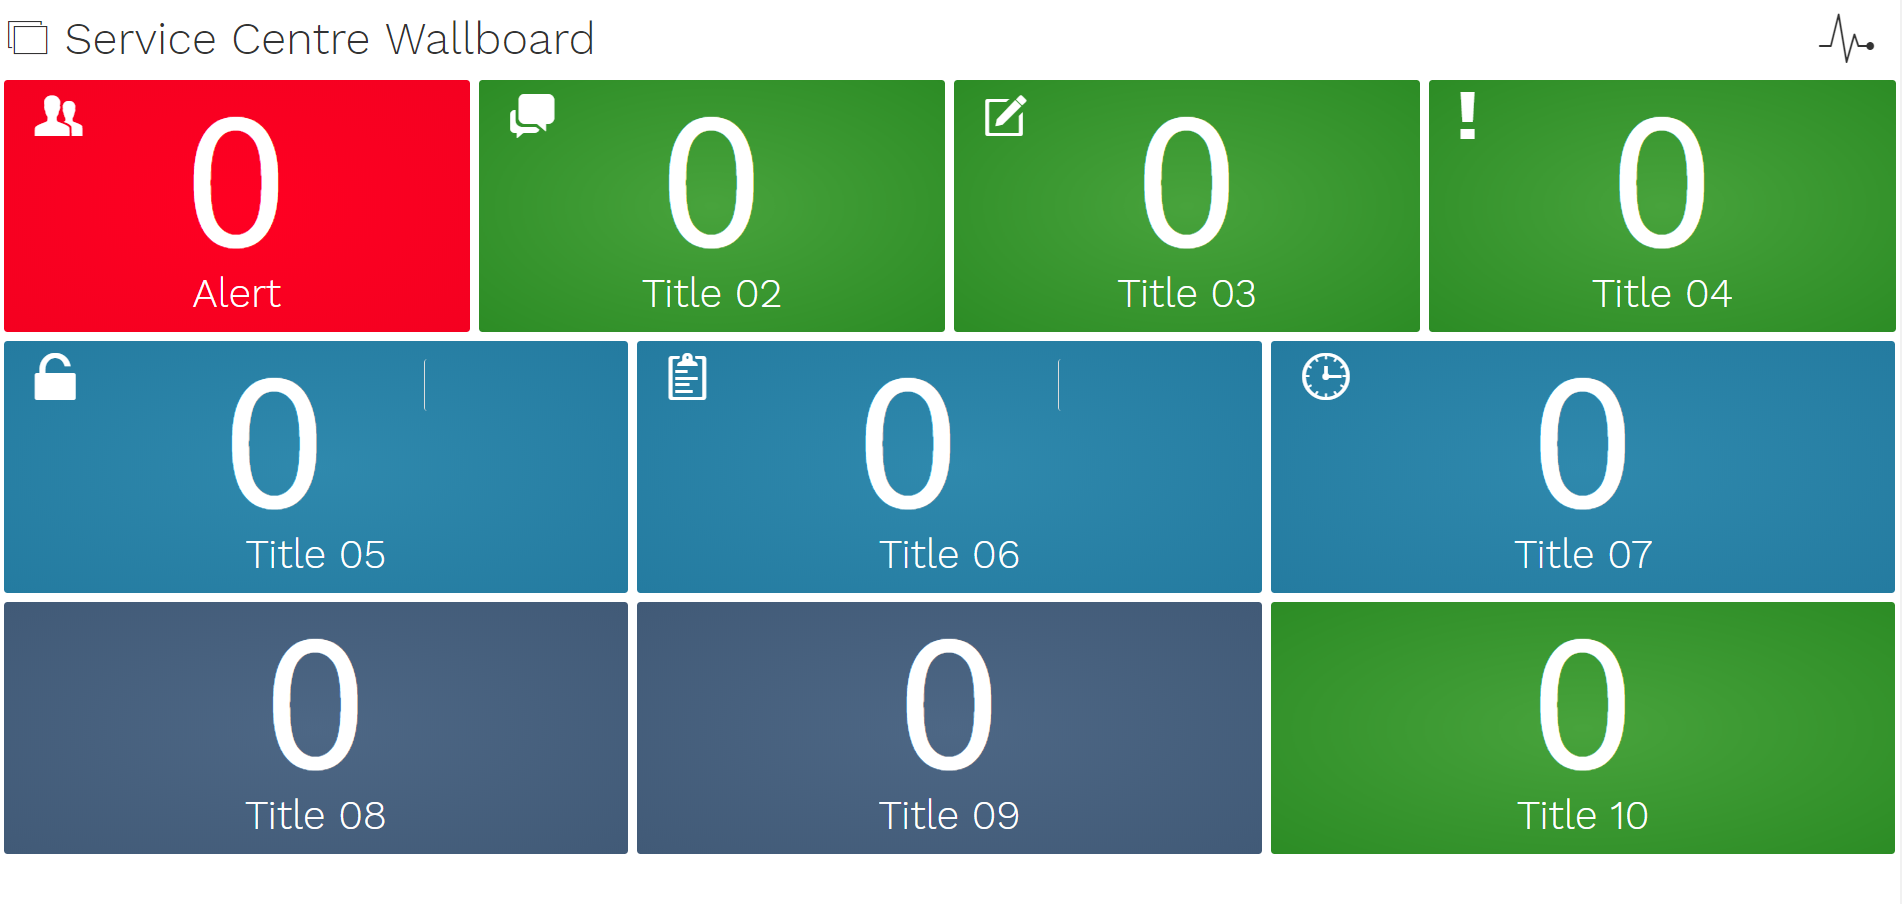
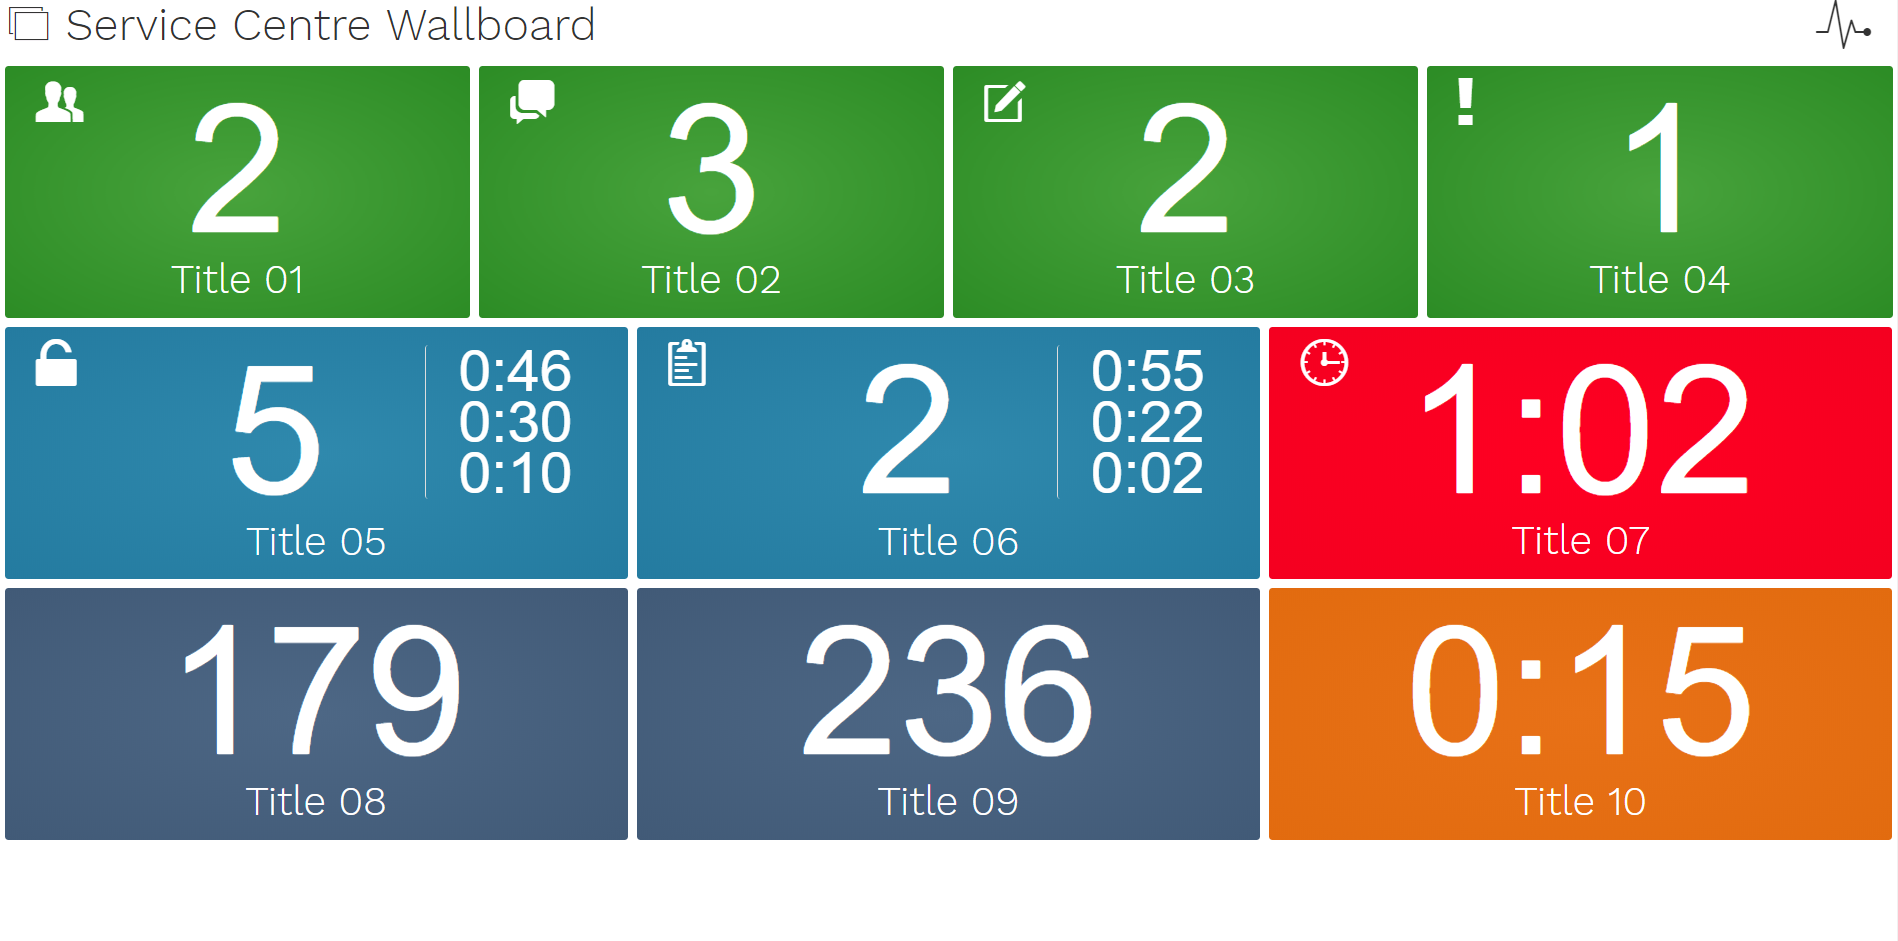
uplift documentation and init values

diff --git a/app/start.js b/app/start.js
@@ -46,23 +46,28 @@ wallboard.controller('scwCtrl', function($scope) {
   $scope.Row3_Box_03_colour = "stage stage-green";
   
   //set initial values
-  $scope.Row1_Box_01 = "0";
-  if ($scope.Row1_Box_01 == ''){$scope.Row1_Box_01 = "0";}
-  $scope.Row1_Box_02 = "0";
-  $scope.Row1_Box_03 = "0";
-  $scope.Row1_Box_04 = "0";
-  $scope.Row2_Box_01 = "0";
-  $scope.Row2_Box_02 = "0";
-  $scope.Row2_Box_03 = "0";
-  $scope.Row3_Box_01 = "0";
-  $scope.Row3_Box_02 = "0";
-  $scope.Row3_Box_03 = "0";
+  $scope.Row1_Box_01 = "2";
+  $scope.Row1_Box_02 = "3";
+  $scope.Row1_Box_03 = "2";
+  $scope.Row1_Box_04 = "1";
+  $scope.Row2_Box_01 = "5";
+  $scope.Row2_Box_02 = "2";
+  $scope.Row2_Box_03 = "1:02";
+  $scope.Row3_Box_01 = "179";
+  $scope.Row3_Box_02 = "236";
+  $scope.Row3_Box_03 = "0:15";
+  $scope.Row2_Box_01_Time0 = "0:46";
+  $scope.Row2_Box_01_Time1 = "0:30";
+  $scope.Row2_Box_01_Time2 = "0:10";
+  $scope.Row2_Box_02_Time0 = "0:55";
+  $scope.Row2_Box_02_Time1 = "0:22";
+  $scope.Row2_Box_02_Time2 = "0:02";
   
   //set message
-  $scope.Row4_Box_01 = "";
-  $scope.Row4_Box_01_colour = "";
+  $scope.Row4_Box_01 = "message";
+  $scope.Row4_Box_01_colour = "red";
   $scope.message_type = "key";
-  $scope.bubble_message = "";
+  $scope.bubble_message = "hello";
   $scope.messageText = 'welcome';
 
 });

diff --git a/app/uccx/uccx_controller_slave.js b/app/uccx/uccx_controller_slave.js
@@ -17,5 +17,5 @@ angular.module('scw').
 			$scope.Row3_Box_02 = $scope.uccx.CallsHandled;
 			$scope.Row3_Box_03 = $scope.uccx.convAvgWaitDuration;
     });
-  }, 5000);
+  }, 5000)
 });
